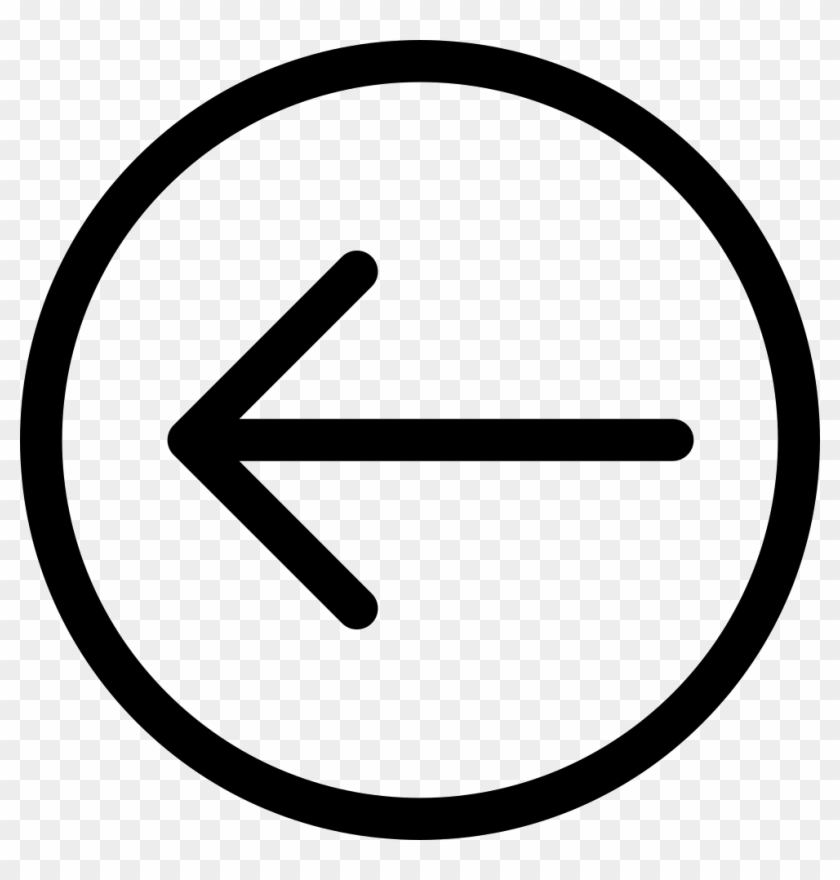
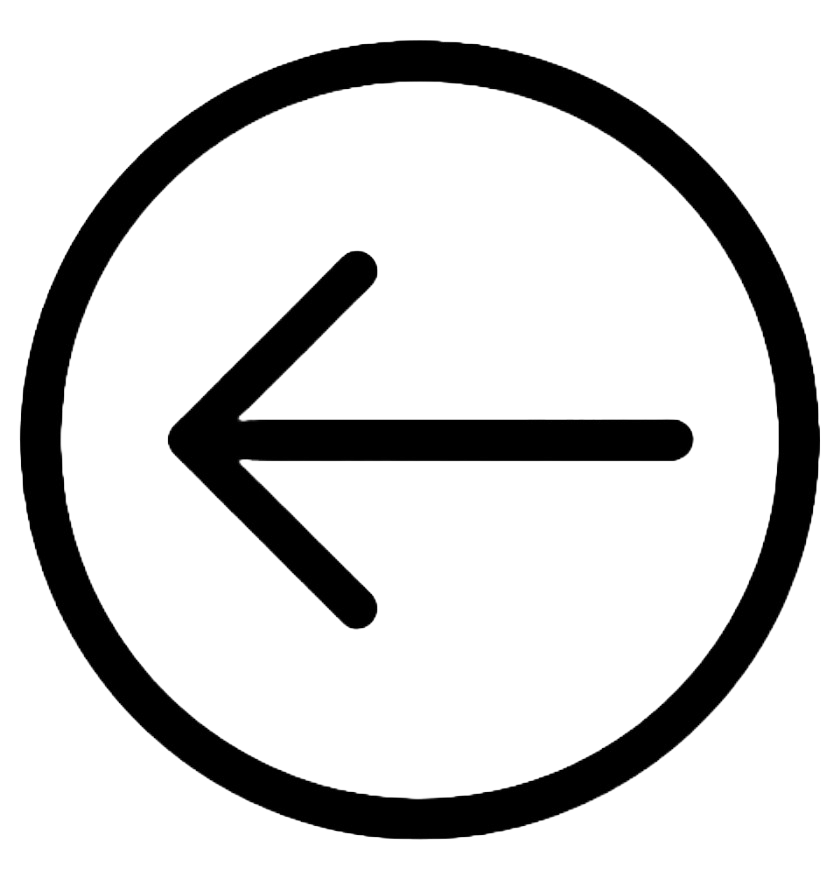
commented the code and cleaned the assets folder

diff --git a/widgets.py b/widgets.py
@@ -31,6 +31,8 @@ class Button:
         self.rect.center = (x, y)
 
     def draw(self, win):
+        """Draw the button to the screen."""
+        
         pygame.draw.rect(
             win, self.color, self.rect, border_radius=self.border_radius
         )
@@ -38,6 +40,8 @@ class Button:
         win.blit(self.text_surface, text_rect)
 
     def update(self, event):
+        """Check if the button is clicked and perform the action."""
+
         if event.type == pygame.MOUSEBUTTONDOWN:
             if self.rect.collidepoint(event.pos):
                 return self.action()
@@ -95,6 +99,8 @@ class Board:
         }
 
     def draw(self, win):
+        """Draw the board to the screen."""
+
         pygame.draw.rect(win, GREY, self.grid_rect, border_radius=10)
         for row in range(self.tile_gap, self.grid_rect.width, 125):
             for height in range(self.tile_gap, self.grid_rect.height, 125):
@@ -113,15 +119,21 @@ class Board:
                     )
 
     def update(self, event):
+        """Update the board based on user input."""
+
         if event.type == pygame.KEYDOWN:
             if self.move(event.key, []):
                 self.random_tile()
 
     def reset(self):
+        """Reset the board to the initial state."""
+
         self.board = [[0, 2, 0, 2], [0, 0, 0, 0], [0, 0, 0, 0], [0, 0, 0, 0]]
         self.score = 0
     
     def random_tile(self):
+        """Add a random tile (2 or 4) to an empty spot on the board."""
+
         empty = []
         for i in range(len(self.board)):
             for j in range(len(self.board[i])):
@@ -136,6 +148,8 @@ class Board:
 
 
     def move(self, key, merged):
+        """Move the tiles in the specified direction."""
+
         copy = deepcopy(self.board)
         i_range = []
         j_range = []
@@ -196,6 +210,8 @@ class Board:
 
 
     def game_over(self):
+        """Check if the game is over (no more valid moves)."""
+
         if not any(row.count(0) for row in self.board):
             for i in range(len(self.board)):
                 for j in range(len(self.board)):
@@ -227,6 +243,8 @@ class Menu:
         self.just_opened = False
 
     def draw(self):
+        """Draw the menu and its buttons to the screen."""
+
         if not self.display:
             return
 
@@ -239,6 +257,8 @@ class Menu:
             button.draw(self.win)
 
     def update(self, event):
+        """Check if menu buttons are clicked and perform their actions."""
+
         if not self.display:
             return
 
@@ -260,13 +280,17 @@ class BackButton:
     def __init__(self, x, y):
         self.x = x
         self.y = y
-        self.img = pygame.transform.smoothscale(pygame.image.load("assets/back2.png"), (50, 50))
+        self.img = pygame.transform.smoothscale(pygame.image.load("assets/back.png"), (50, 50))
         self.rect = self.img.get_rect(topleft=(x, y))
 
     def draw(self, win):
+        """Draw the back button to the screen."""
+
         win.blit(self.img, self.rect)
 
     def clicked(self, event):
+        """Check if the back button is clicked."""
+
         if event.type == pygame.MOUSEBUTTONDOWN:
             if self.rect.collidepoint(event.pos):
                 return True

diff --git a/pages/WatchAI.py b/pages/WatchAI.py
@@ -16,6 +16,7 @@ class WatchAI:
         self.game_over_text = pygame.font.SysFont("JetBrains Mono", 100)
         self.board = Board((345, 100), 510)
 
+        # Resets the board when clicked
         self.reset_button = Button(
             x=1050,
             y=300,
@@ -29,6 +30,7 @@ class WatchAI:
             border_radius=5
         )
 
+        # Removes the delay between AI moves when clicked
         self.max_speed_button = Button(
             x=1050,
             y=375,
@@ -42,6 +44,7 @@ class WatchAI:
             border_radius=5
         )
 
+        # Adds the delay between AI moves when clicked
         self.normal_speed_button = Button(
             x=1050,
             y=375,
@@ -59,11 +62,15 @@ class WatchAI:
         self.ai.update_board(self.board.board)
         self.done = False
         self.max_speed = False
+
+        # Start a separate thread for the AI to run on
         self.ai_thread = threading.Thread(target=self.handle_ai)
         self.ai_thread.daemon = True
         self.ai_thread.start()
 
     def draw(self):
+        """Draw the elements of the Watch AI page to the screen."""
+
         self.win.fill(self.bg)
         self.board.draw(self.win)
         self.score_surface = self.score_text.render(f"SCORE:", True, BLACK)
@@ -85,6 +92,8 @@ class WatchAI:
             self.win.blit(self.game_over_surface, self.game_over_rect)
 
     def update(self, event):
+        """Update the elements of the Watch AI page based on user input."""
+
         self.reset_button.update(event)
         if self.max_speed:
             self.max_speed_button.update(event)
@@ -92,8 +101,10 @@ class WatchAI:
             self.normal_speed_button.update(event)
 
     def handle_ai(self):
-        while not self.board.game_over() or not self.done:
-            if not self.max_speed: 
+        """Handle the AI moves in a separate thread until game over or page changed."""
+
+        while not self.board.game_over() and not self.done:
+            if not self.max_speed:
                 time.sleep(0.3)
             move = self.ai.move()
             if self.board.move(move, []):
@@ -101,7 +112,11 @@ class WatchAI:
             self.ai.update_board(self.board.board)
 
     def change_speed(self):
+        """Toggle the speed of the AI moves."""
+
         self.max_speed = not self.max_speed
 
     def clean(self):
+        """Stop the AI thread when changing pages."""
+
         self.done = True

diff --git a/AI.py b/AI.py
@@ -15,6 +15,8 @@ class Node:
         self.depth = depth
     
     def get_val(self):
+        """Generate a heuristic value for the node/board state."""
+
         if self.check_terminal() or self.score == 0:
             return 0
         
@@ -28,6 +30,8 @@ class Node:
         return positioning_score * sqrt(self.score)
 
     def check_terminal(self):
+        """Check if the board is in a terminal state (no moves left)."""
+
         if not any(row.count(0) for row in self.board):
             for i in range(len(self.board)):
                 for j in range(len(self.board[i])):
@@ -40,6 +44,8 @@ class Node:
             return True
 
     def move(self, action, merged, board):
+        """Move the tiles on the board in the specified direction."""
+
         if not board:
             board = deepcopy(self.board)
         copy = deepcopy(board)
@@ -112,6 +118,8 @@ class AI:
         self.board = deepcopy(board)
 
     def move(self):
+        """Decide the best move to make using a depth-limited search algorithm."""
+
         self.frontier = [Node(self.board, None, None, 0, 0)]
         self.explored = []
         node = self.search()
@@ -121,6 +129,8 @@ class AI:
         return node.action
 
     def add_nodes(self, node):
+        """Add neighbouring nodes to the frontier."""
+
         actions = [pygame.K_UP, pygame.K_DOWN, pygame.K_LEFT, pygame.K_RIGHT]
         for action in actions:
             state = node.move(action, [], [])
@@ -142,6 +152,8 @@ class AI:
                 self.frontier.append(Node(board, node, action, node.score + score, node.depth + 1))          
 
     def search(self):
+        """Perform the depth-limited search to find the best move."""
+
         current = min(self.frontier, key=lambda node: node.depth)
         if current.depth == self.max_depth:
             best_result = max(self.frontier, key=lambda node: node.val)

diff --git a/pages/VsAI.py b/pages/VsAI.py
@@ -41,6 +41,8 @@ class VsAI:
 
 
     def draw(self):
+        """Draw the elements of the Vs AI page to the screen."""
+
         self.win.fill(self.bg)
         
         self.player_board.draw(self.win)
@@ -93,15 +95,21 @@ class VsAI:
         self.reset_button.draw(self.win)
 
     def update(self, event):
+        """Update the Vs AI page based on user input."""
+
         self.player_board.update(event)
         self.reset_button.update(event)
 
     def reset(self):
+        """Reset the game boards."""
+
         self.player_board.reset()
         self.ai_board.reset()
 
     def handle_ai(self):
-        while not self.ai_board.game_over() or not self.done:
+        """Handle the AI moves in a separate thread until game over or page changed."""
+
+        while not self.ai_board.game_over() and not self.done:
             time.sleep(0.2)
             move = self.ai.move()
             if self.ai_board.move(move, []):
@@ -109,4 +117,6 @@ class VsAI:
             self.ai.update_board(self.ai_board.board)
 
     def clean(self):
+        """Stop the AI thread when changing pages."""
+
         self.done = True

diff --git a/pages/VsFriend.py b/pages/VsFriend.py
@@ -13,6 +13,7 @@ class VsFriend:
         self.player_text = pygame.font.SysFont("JetBrains Mono", 60)
         self.game_over_text = pygame.font.SysFont("JetBrains Mono", 120)
 
+        # Reset the board when clicked
         self.reset_button = Button(
             x=600,
             y=640,
@@ -31,6 +32,8 @@ class VsFriend:
 
 
     def draw(self):
+        """Draw the elements of the Vs Friend page to the screen."""
+
         self.win.fill(self.bg)
         
         self.player1_board.draw(self.win)
@@ -80,6 +83,8 @@ class VsFriend:
         self.reset_button.draw(self.win)
 
     def update(self, event):
+        """Update the Vs Friend page based on user input."""
+
         self.player1_board.update(event)
         self.reset_button.update(event)
 
@@ -93,6 +98,8 @@ class VsFriend:
                 self.player2_board.random_tile()
 
     def reset(self):
+        """Reset the game boards."""
+
         self.player1_board.reset()
         self.player2_board.reset()
     

diff --git a/pages/WelcomePage.py b/pages/WelcomePage.py
@@ -11,7 +11,7 @@ class WelcomePage:
         self.win = win
         self.text_font = pygame.font.SysFont("JetBrains Mono", 40)
         self.logo = pygame.transform.smoothscale(
-            pygame.image.load("assets/logo_up.png"), (375, 225)
+            pygame.image.load("assets/logo.png"), (375, 225)
         )
 
         classic_button = Button(
@@ -115,6 +115,8 @@ class WelcomePage:
 
 
     def draw(self):
+        """Draw the elements of the welcome page to the screen."""
+
         self.win.fill(self.bg)
         self.play_button.draw(self.win)
         self.quit_button.draw(self.win)
@@ -125,6 +127,8 @@ class WelcomePage:
         self.play_menu.draw()
 
     def update(self, event):
+        """Update the welcome page based on user input."""
+
         if not self.play_menu.display:
             self.play_button.update(event)
             self.quit_button.update(event)

diff --git a/pages/Classic.py b/pages/Classic.py
@@ -13,6 +13,7 @@ class Classic:
         self.game_over_text = pygame.font.SysFont("JetBrains Mono", 100)
         self.board = Board((345, 100), 510)
 
+        # Resets the board when clicked
         self.reset_button = Button(
             x=1050,
             y=300,
@@ -27,6 +28,8 @@ class Classic:
         )
 
     def draw(self):
+        """Draw the elements of the classic game page to the screen."""
+
         self.win.fill(self.bg)
         self.board.draw(self.win)
         self.score_surface = self.score_text.render(f"SCORE:", True, BLACK)
@@ -42,6 +45,8 @@ class Classic:
             self.win.blit(self.game_over_surface, self.game_over_rect)
 
     def update(self, event):
+        """Update the classic game page based on user input."""
+
         self.board.update(event)
         self.reset_button.update(event)
 

diff --git a/main.py b/main.py
@@ -10,6 +10,7 @@ WHITE = (255, 255, 255)
 back = BackButton(20, 20)
 
 def change_page(new_page):
+    """"Callback function to change the current page"""
     global page
     page = new_page
     pages.append(page)
@@ -18,7 +19,7 @@ page = WelcomePage(change_page, win)
 pages = [page]
 
 def main():
-    global page
+    """Main Event Loop"""
 
     clock = pygame.time.Clock()
     running = True
